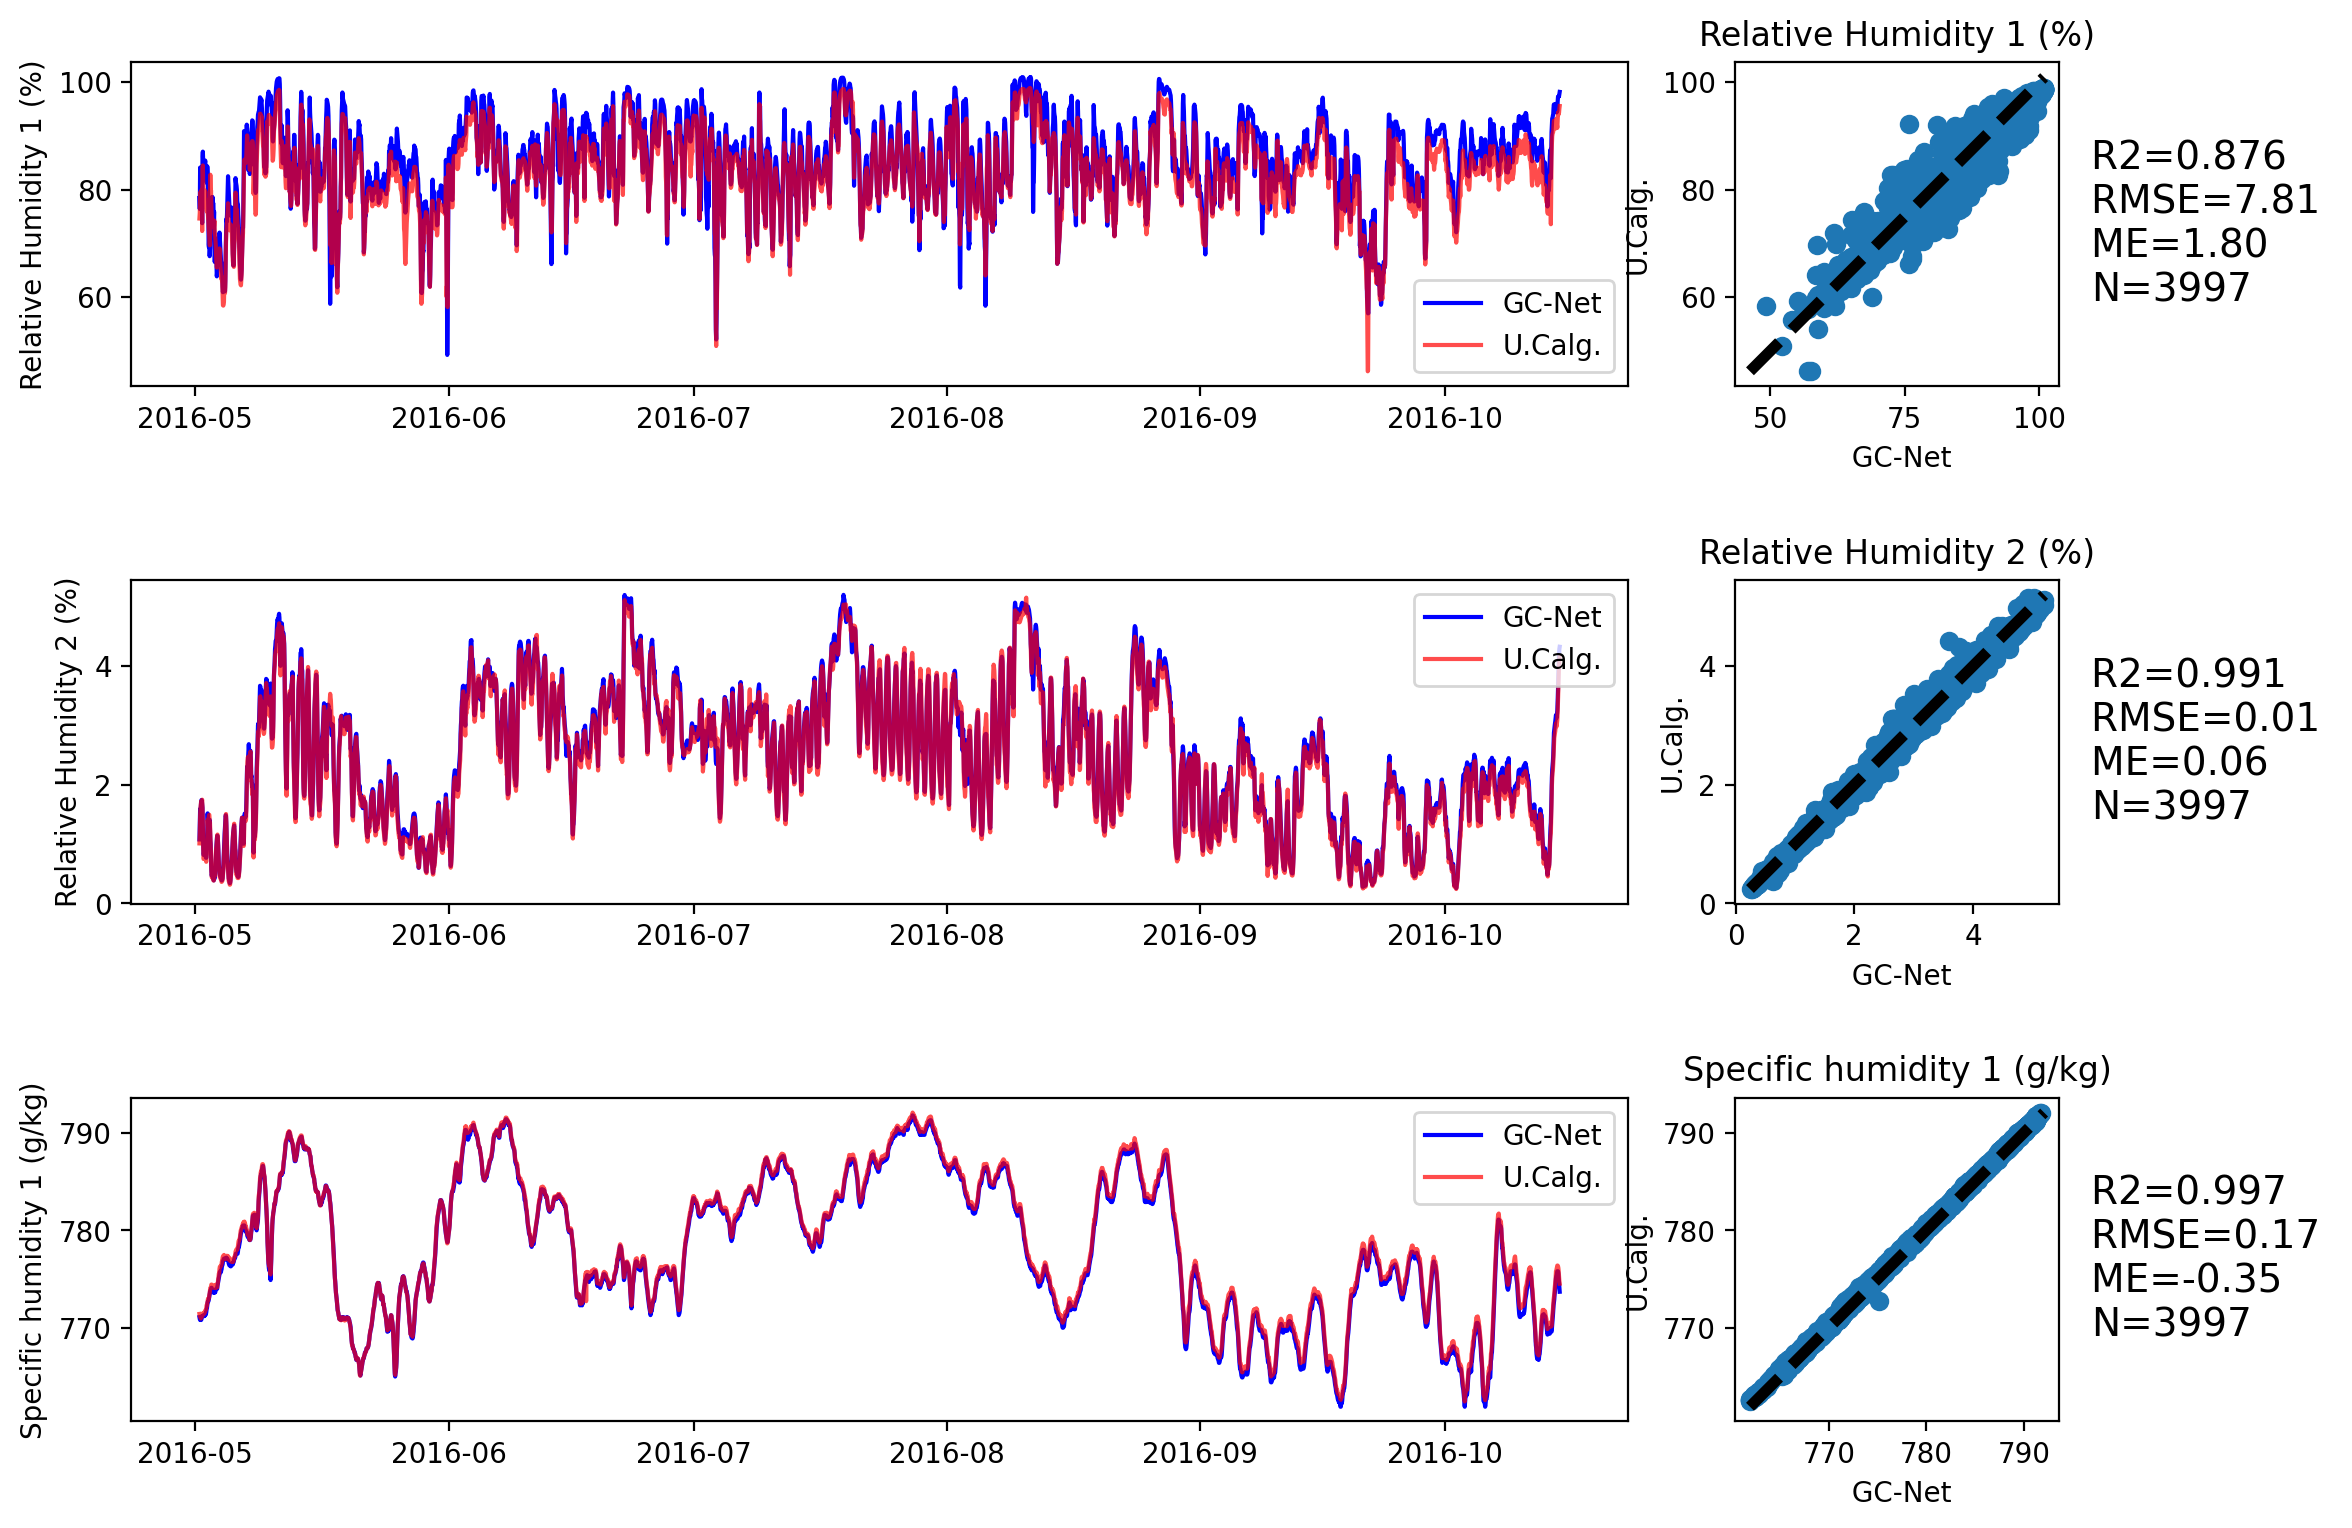
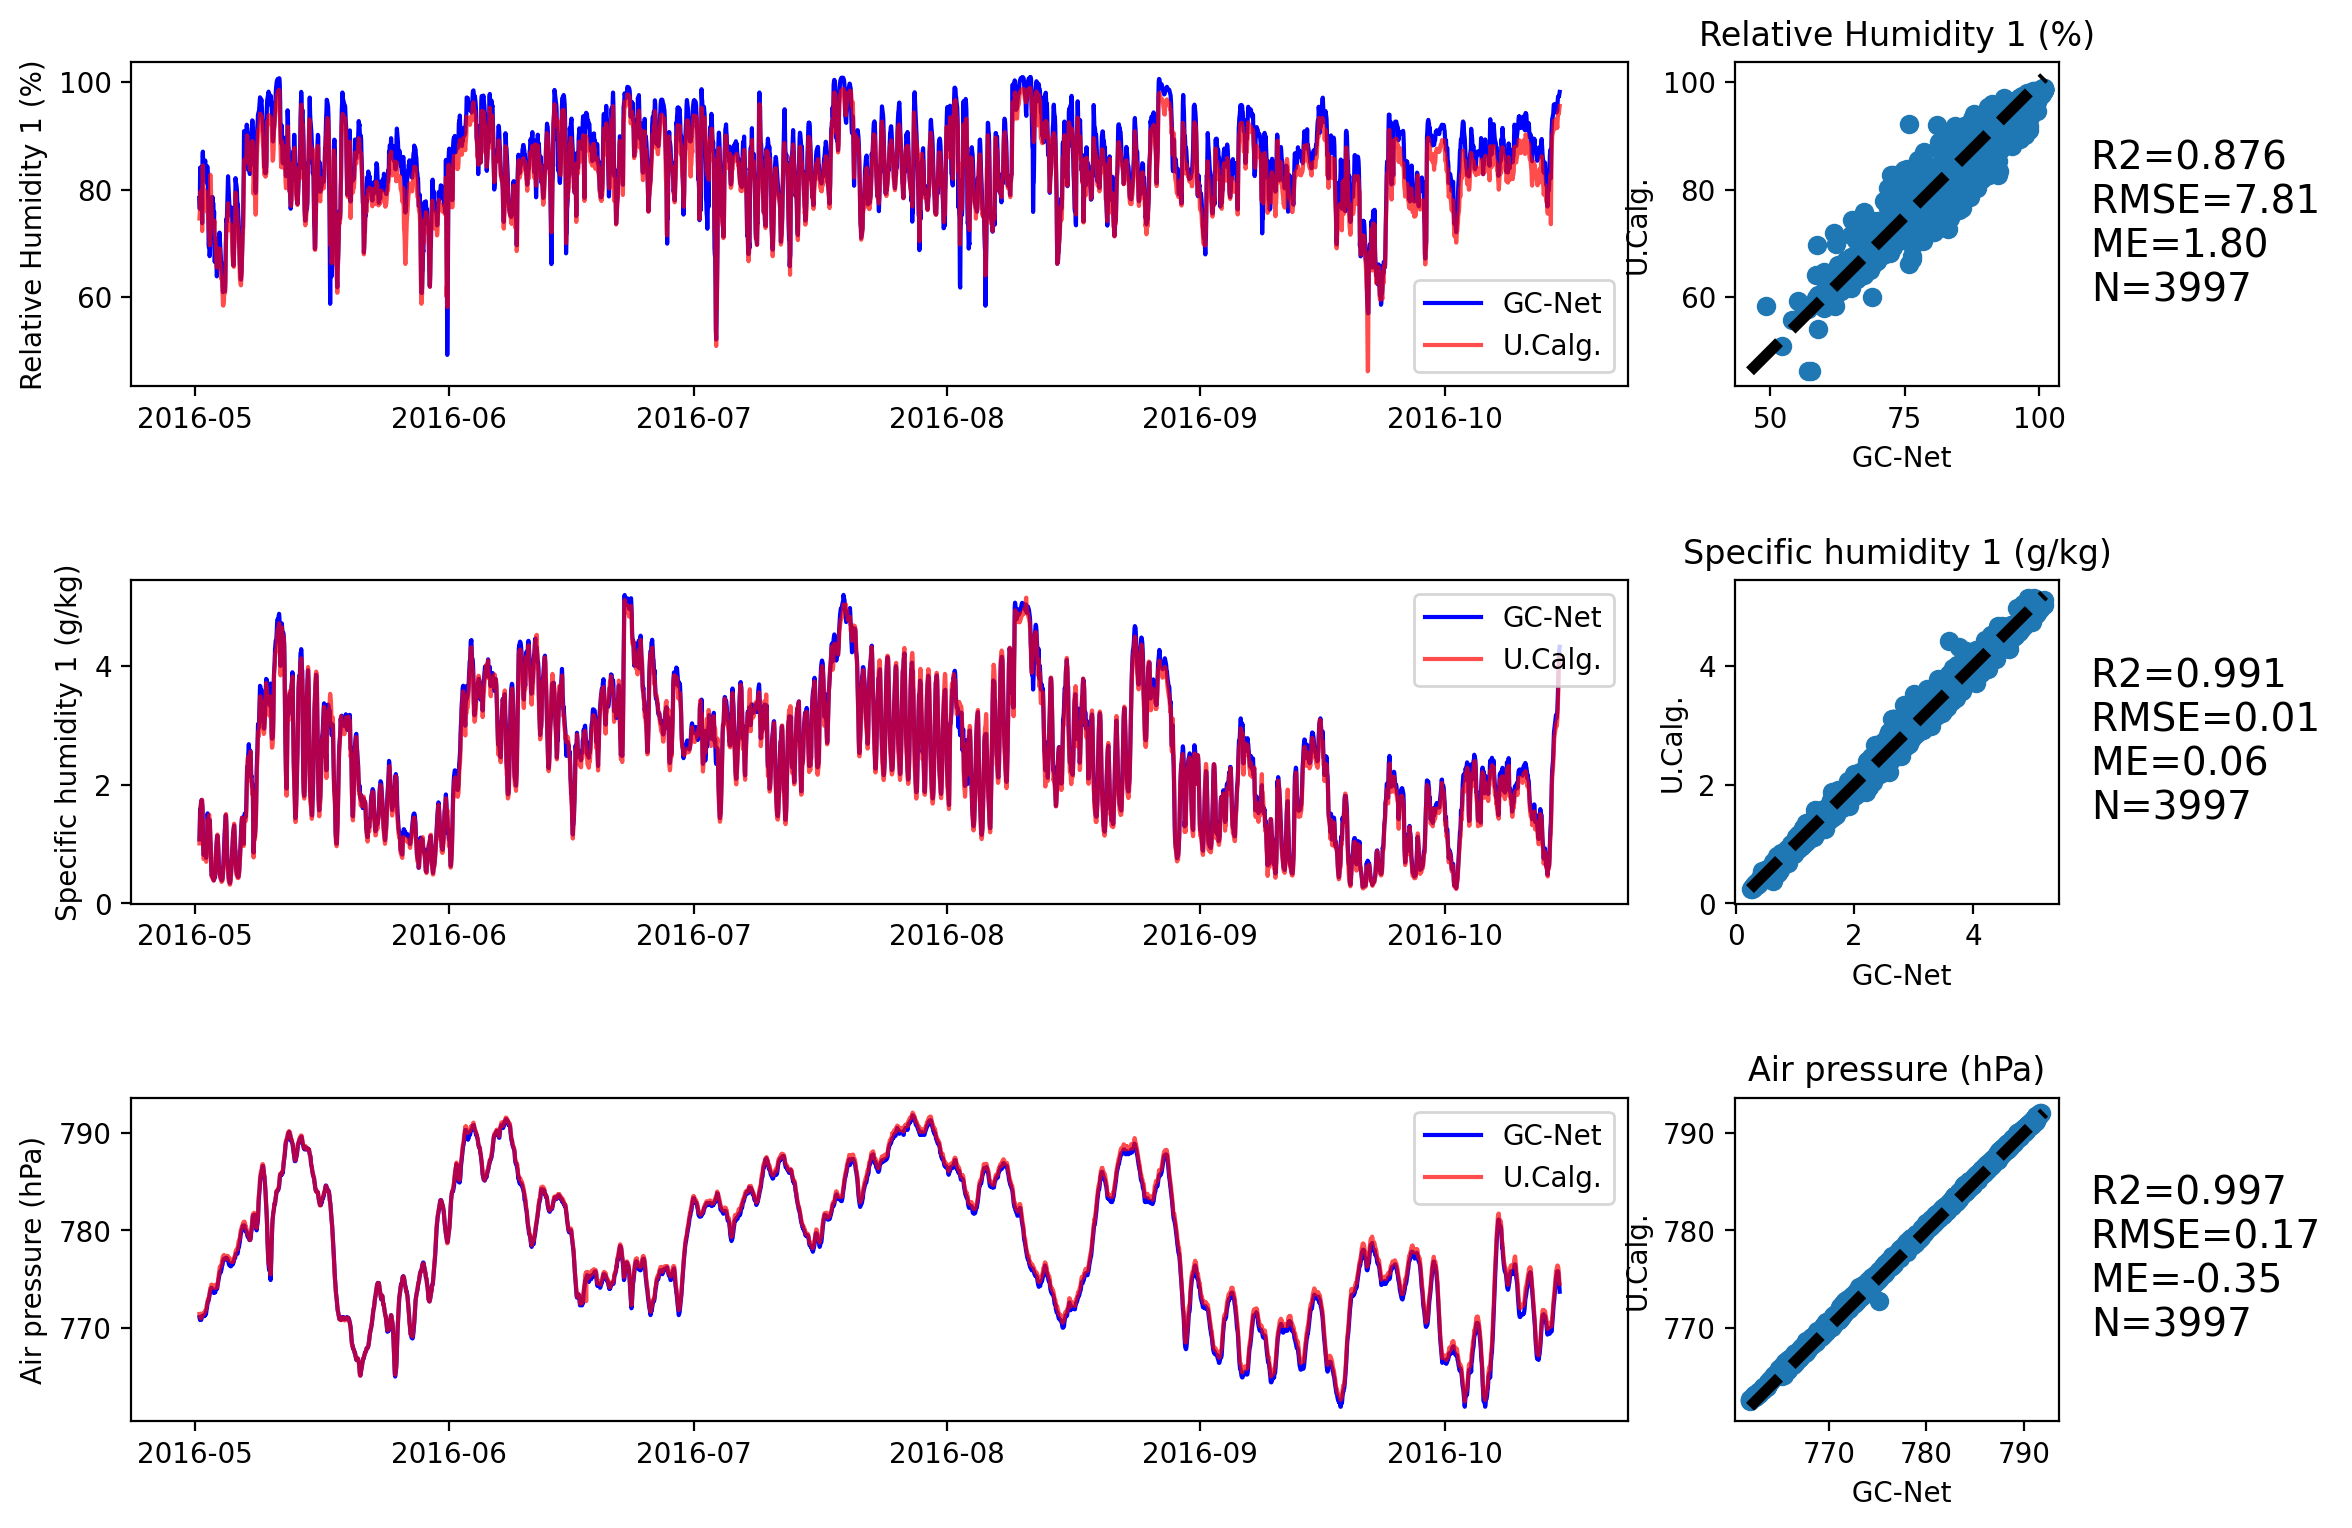
dye2_Rh

diff --git a/GC-Net-evaluation.py b/GC-Net-evaluation.py
@@ -107,9 +107,8 @@ gnl.plot_comp(df_all, df_interpol, varname1, varname2,varname3,'U.Calg.', statio
 
 varname1 =  ['RH1_w','SpecHum1','P']
 varname2 =  ['RelativeHumidity_w','SpecHum_ucalg','AirPressurehPa']
-varname3 =  ['Relative Humidity 1 (%)','Relative Humidity 2 (%)', 
-             'Specific humidity 1 (g/kg)','Specific humidity 2 (g/kg)',
-             'Air pressure (hPa)']
+varname3 =  ['Relative Humidity 1 (%)', 
+             'Specific humidity 1 (g/kg)','Air pressure (hPa)']
 gnl.plot_comp(df_all, df_interpol, varname1, varname2,varname3,'U.Calg.', station+'_rh_pres')
 
 varname1 =  ['VW1','VW2','DW1','DW2']
@@ -210,7 +209,7 @@ for k in range(len(df_interpol['sza'])-1):
 varname1 =  ['TA1','TA2']#,'ta_cs1','ta_cs2']
 varname2 =  ['AirTemperature(C)', 'AirTemperature(C)']#, 'AirTemperatureC', 'AirTemperatureC']
 varname3 =  ['Air temperature 1 (deg C)', 'Air temperature 2 (deg C)']#,'Air temperature cs1 (deg C)','Air temperature cs2 (deg C)']
-gnl.plot_comp(df_all, df_interpol, varname1, varname2,varname3,'EGP', station+'_temp')
+gnl.plot_comp(df_all, df_interpol, varname1, varname2,varname3,'PROMICE', station+'_temp')
 
 
 varname1 =  ['RH1_w', 'RH2_w','SpecHum1','SpecHum2','P']
